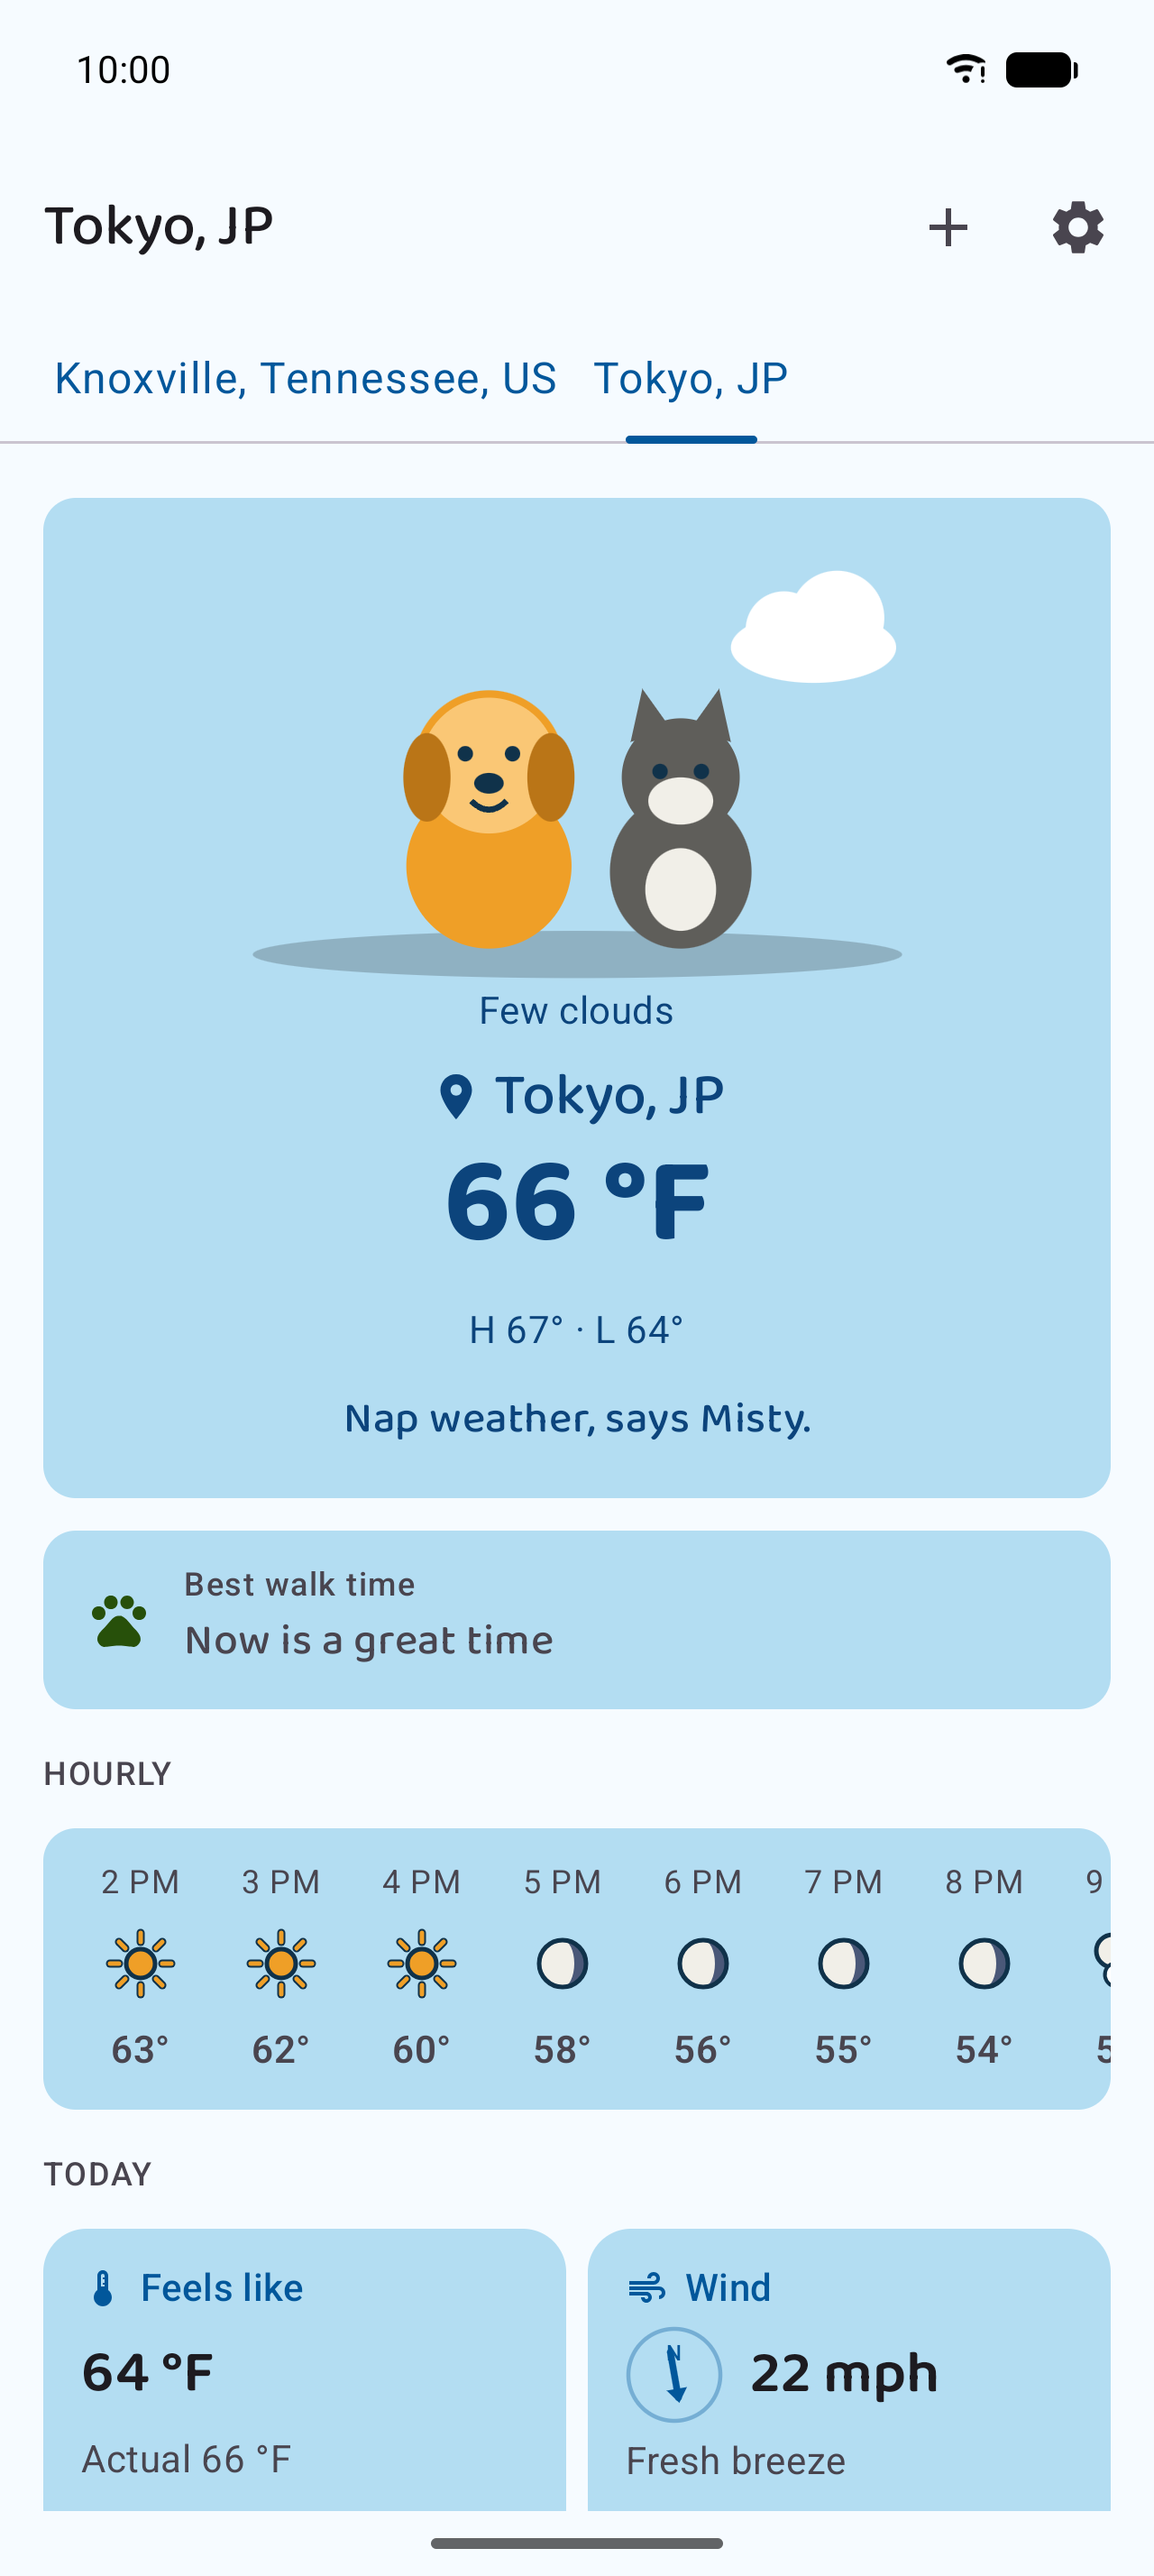
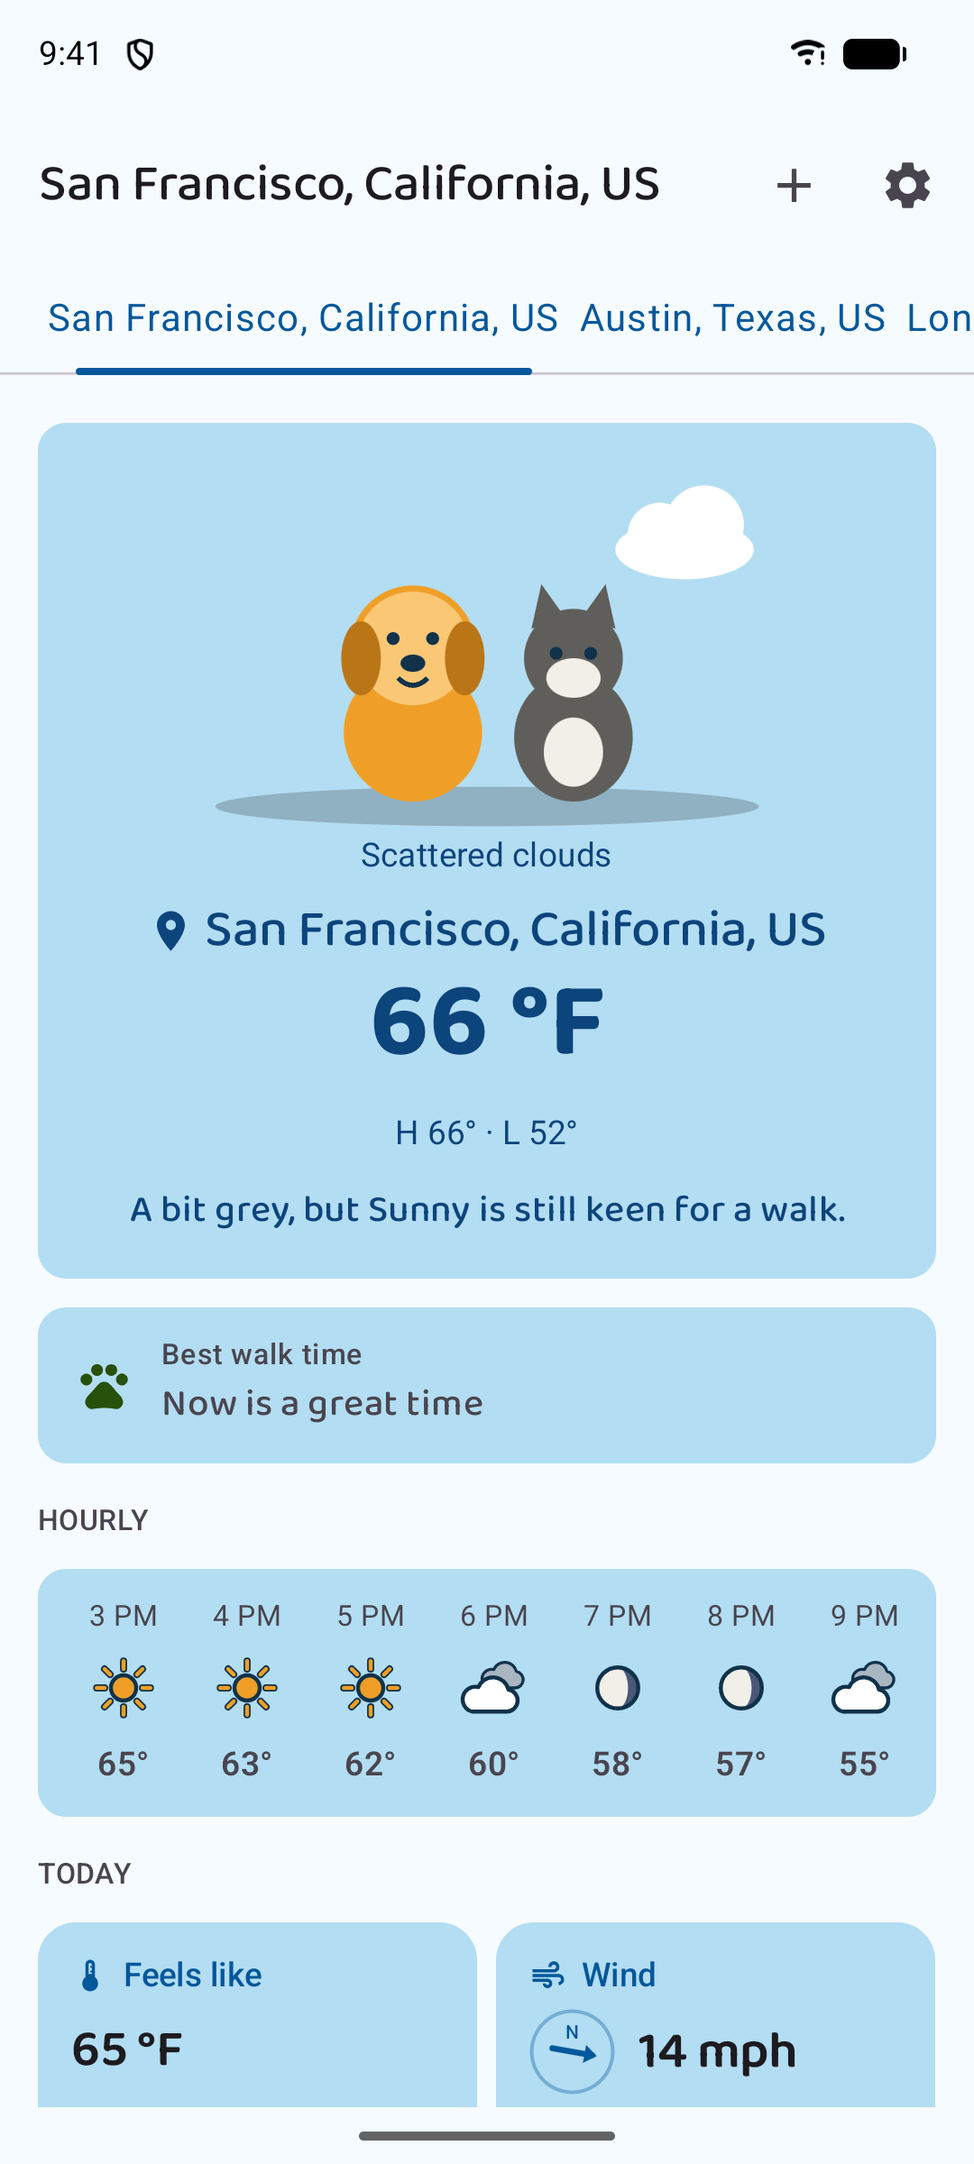
README: fresh screenshots, and a Play Store screenshot set (#97)
* Hero: today's high and low from the forecast

The hero's H and L came from OpenWeather's current temp_max/temp_min, which
is the spread across nearby stations right now, not the day's range: San
Francisco showed H 70 / L 64 while its hours ran 55 to 65. It now uses
today's forecast high and low, widened to take in the temperature now, and
falls back to the current reading until today's forecast is in.

Today's forecast range also only covered the hours still to come, so late
in the evening it read H 51 / L 49. Open-Meteo days now take each local
day's min and max over all of its hours, including those already past.

* README: fresh screenshots, and a Play Store screenshot set

New README screenshots showing the full-width Air quality tile, and
screenshots/play-store/ with six 1080x1920 phone shots and two tablet shots.
The feature list now covers the Today tiles, air quality, bad air in the
walk planner and the update prompts.

* NOTES: high and low fix, screenshot findings

* Day detail: drop the doubled divider under the header

The header's divider and the list's top divider sat 8dp apart, which read
as an empty row before the first hour.

diff --git a/app/src/main/java/com/fangjet/weather/ui/CurrentWeatherScreen.kt b/app/src/main/java/com/fangjet/weather/ui/CurrentWeatherScreen.kt
@@ -950,16 +950,17 @@ private fun CurrentWeatherContent(
                         fontWeight = FontWeight.Bold,
                         color = ink,
                     )
+                    val (high, low) = heroHighLow(weather, todayForecast)
                     val spokenRange = stringResource(
                         R.string.label_temp_range_spoken,
-                        weather.tempMax.roundToInt(),
-                        weather.tempMin.roundToInt(),
+                        high.roundToInt(),
+                        low.roundToInt(),
                     )
                     Text(
                         text = stringResource(
                             R.string.label_temp_range,
-                            weather.tempMax.roundToInt(),
-                            weather.tempMin.roundToInt(),
+                            high.roundToInt(),
+                            low.roundToInt(),
                         ),
                         style = MaterialTheme.typography.bodyMedium,
                         color = ink,
@@ -1566,3 +1567,18 @@ private fun SectionHeader(
 }
 
 private val TEMP_TOP_TRIM = 14.dp
+
+/**
+ * The hero's "H … · L …": today's forecast high and low, widened to take in the temperature now.
+ * OpenWeather's current `temp_max`/`temp_min` are the spread across nearby stations at this moment,
+ * not the day's range, so they're only the fallback until today's forecast is in.
+ */
+internal fun heroHighLow(
+    weather: CurrentWeather,
+    today: DayForecast?,
+): Pair<Double, Double> =
+    if (today == null) {
+        weather.tempMax to weather.tempMin
+    } else {
+        maxOf(today.tempMax, weather.temperature) to minOf(today.tempMin, weather.temperature)
+    }

diff --git a/app/src/test/java/com/fangjet/weather/ui/HeroHighLowTest.kt b/app/src/test/java/com/fangjet/weather/ui/HeroHighLowTest.kt
@@ -1,0 +1,50 @@
+package com.fangjet.weather.ui
+
+import com.fangjet.weather.domain.CurrentWeather
+import com.fangjet.weather.domain.DayForecast
+import com.fangjet.weather.domain.WeatherUnits
+import org.junit.Assert.assertEquals
+import org.junit.Test
+
+class HeroHighLowTest {
+    // OpenWeather's current min and max are the spread across nearby stations right now.
+    private val weather =
+        CurrentWeather(
+            cityName = "San Francisco",
+            conditionMain = "Clouds",
+            description = "scattered clouds",
+            iconCode = "03d",
+            temperature = 66.0,
+            feelsLike = 65.0,
+            tempMin = 64.0,
+            tempMax = 70.0,
+            humidityPercent = 60,
+            pressureHpa = 1015,
+            windSpeed = 10.0,
+            windDeg = 270,
+            visibilityMeters = 10000,
+            cloudPercent = 40,
+            units = WeatherUnits.IMPERIAL,
+        )
+
+    private fun today(
+        high: Double,
+        low: Double,
+    ) = DayForecast("Fri, Oct 30", "Clouds", "scattered clouds", "03d", high, high, low, high, WeatherUnits.IMPERIAL)
+
+    @Test
+    fun `uses today's forecast high and low`() {
+        assertEquals(68.0 to 52.0, heroHighLow(weather, today(high = 68.0, low = 52.0)))
+    }
+
+    @Test
+    fun `widens the range to take in the temperature now`() {
+        assertEquals(66.0 to 55.0, heroHighLow(weather, today(high = 65.0, low = 55.0)))
+        assertEquals(74.0 to 66.0, heroHighLow(weather, today(high = 74.0, low = 67.0)))
+    }
+
+    @Test
+    fun `falls back to the current reading's range without today's forecast`() {
+        assertEquals(70.0 to 64.0, heroHighLow(weather, null))
+    }
+}

diff --git a/weather-api/src/main/java/com/fangjet/weather/data/OpenMeteoForecastSource.kt b/weather-api/src/main/java/com/fangjet/weather/data/OpenMeteoForecastSource.kt
@@ -101,6 +101,13 @@ class OpenMeteoForecastSource @Inject constructor(
                 shortwaveRadiationWm2 = h.time.indices.map { i -> h.shortwaveRadiation.getOrNull(i) },
                 isDay = h.time.indices.map { i -> h.isDay.getOrNull(i) == 1 },
             )
+            // Each local day's range over all of its hours, including the ones dropped below, so
+            // late in the evening today's high is still the afternoon's, not the next few hours'.
+            val localDate = { epoch: Long -> Instant.ofEpochSecond(epoch).atZone(zone).toLocalDate() }
+            val dayRanges = h.time.indices
+                .mapNotNull { i -> h.temperature.getOrNull(i)?.let { localDate(h.time[i]) to it } }
+                .groupBy({ it.first }, { it.second })
+                .mapValues { (_, temps) -> temps.min() to temps.max() }
             val slots = h.time.indices.mapNotNull { i ->
                 val epoch = h.time[i]
                 val temp = h.temperature.getOrNull(i) ?: return@mapNotNull null
@@ -111,6 +118,8 @@ class OpenMeteoForecastSource @Inject constructor(
                     epochSeconds = epoch,
                     temperature = temp,
                     feelsLike = h.apparentTemperature.getOrNull(i) ?: temp,
+                    tempMin = dayRanges[localDate(epoch)]?.first ?: temp,
+                    tempMax = dayRanges[localDate(epoch)]?.second ?: temp,
                     conditionMain = condition.main,
                     description = condition.description,
                     iconCode = condition.iconCode,

diff --git a/weather-api/src/test/java/com/fangjet/weather/data/OpenMeteoForecastSourceTest.kt b/weather-api/src/test/java/com/fangjet/weather/data/OpenMeteoForecastSourceTest.kt
@@ -51,6 +51,22 @@ class OpenMeteoForecastSourceTest {
     }
 
     @Test
+    fun `today's high and low cover the whole day, not just the hours left`() {
+        // 24 hours peaking at 2 PM (25°) with a 2 AM low (5°); now is 9 PM.
+        val temps = List(24) { hour -> 15.0 + 10.0 * Math.sin((hour - 8) * Math.PI / 12) }
+        val r = response(24)
+        val response = r.copy(hourly = r.hourly.copy(temperature = temps))
+        val now = dayStart + 21 * 3600
+
+        val today = OpenMeteoForecastSource.toDayForecasts(response, WeatherUnits.METRIC, now).first()
+
+        assertEquals("9 PM", today.hourlySlots.first().timeLabel)
+        assertEquals(temps.max(), today.tempMax, 0.0001)
+        assertEquals(temps[14], today.tempMax, 0.0001)
+        assertEquals(temps.min(), today.tempMin, 0.0001)
+    }
+
+    @Test
     fun `groups and labels hours in the city's own timezone`() {
         // UTC+10: midnight UTC is 10 AM local on the same date, and 14:00 UTC is midnight next day.
         val days = OpenMeteoForecastSource.toDayForecasts(response(24, offset = 36_000), WeatherUnits.METRIC, dayStart)

diff --git a/app/src/main/java/com/fangjet/weather/ui/DayDetailBottomSheet.kt b/app/src/main/java/com/fangjet/weather/ui/DayDetailBottomSheet.kt
@@ -126,8 +126,6 @@ private fun DayDetailContent(
                 items(day.hourlySlots) { slot -> HourlySlotColumn(slot = slot) }
             }
         } else {
-            HorizontalDivider(modifier = Modifier.padding(horizontal = 20.dp))
-
             LazyColumn(
                 modifier = Modifier
                     .fillMaxWidth()

diff --git a/README.md b/README.md
@@ -18,7 +18,8 @@ WorkManager, and CI on GitHub Actions.
 
 ## Features
 
-- **Current conditions** for any city: temperature, feels-like, daily min/max, humidity, wind
+- **Current conditions** for any city: temperature, feels-like, today's high and low (from the
+  day's forecast, over all of its hours), humidity, wind
   speed and direction ("0 mph", with no direction, when calm), visibility ("Clear" at
   OpenWeather's 10 km cap), cloud cover, UV index (daytime, from Open-Meteo), and sunrise/sunset.
 - **Pets that react to the weather**: Sunny the dog and Misty the cat, drawn in Compose, whose scene
@@ -34,6 +35,9 @@ WorkManager, and CI on GitHub Actions.
   around…", judged in the city's own UTC offset. The paw is tinted by the rating, and a caption
   explains hot pavement (naming the pavement only when it's the reason) or freezing weather. Users can turn it off in Settings (*I have a dog*, which hides the Paw check tile too), and
   `walk_card_enabled` hides it remotely.
+- **Bad air in the walk planner**: hours at US "Unhealthy" or worse (Europe's "Poor" and up) are
+  never suggested, and the walk card says "Bad air. Potty breaks only." when the air is bad now.
+  Heat still outranks it. The band is tunable with `walk_bad_air_band`.
 - **Next rain** line under the top card, only when rain or snow is due in the next 2 hours: "Rain
   starting around 3:15 PM", "Rain stopping around 4:30 PM" or "Rain for the next 2 hours", from
   Open-Meteo's 15-minute forecast (0.1 mm in 15 minutes counts; it stops after 30 dry minutes).
@@ -43,6 +47,16 @@ WorkManager, and CI on GitHub Actions.
   otherwise to the nearest 10%, as everywhere in the app). Hours that have
   already passed are dropped at display time (`fromCurrentSlot`), so a cached forecast or an app
   left open never shows or advises on past hours.
+- **Today tiles**: Feels like, Wind, Humidity, Paw check (with a dog) and Air quality in pairs, then
+  Daylight (with the UV index) and Sky across the full width. An odd tile out, usually Air quality
+  when Paw check is showing, takes the full width rather than leaving a gap.
+- **Air quality** tile: the index on the city's scale (Europe's for cities on a European clock, the
+  US one elsewhere), its band on a six-colour bar, and what it means for a walk, or for people
+  without a dog. It comes from Open-Meteo's hourly air quality forecast, fetched with the forecast in
+  one request and cached with it, so it shows offline too. `air_quality_enabled` switches it off.
+- **Update prompts**: below `android_min_supported_version` the app shows only "Time for an update";
+  below `android_min_recommended_version` a banner offers the update, and *Not now* hides it for a
+  week. Both open the Play Store listing.
 - **Weather icons** bundled as vector drawables, drawn in the pets' style with their navy outline so
   they read on light and dark cards. Night icons show the moon's phase for that hour, worked out
   from the date (no API).
@@ -80,15 +94,15 @@ WorkManager, and CI on GitHub Actions.
 
 ## Screenshots
 
-| Pets, walk time & hourly | Today tiles & Paw check | Radar & rest of week | Day detail | Settings |
+| Pets, walk time & hourly | Today tiles & air quality | Radar & rest of week | Day detail | Settings |
 |---|---|---|---|---|
-| ![Sunny and Misty react to the weather, with best walk time and the hourly strip](./screenshots/current.png) | ![Today's tiles: feels like, wind, humidity, Paw check, daylight and sky](./screenshots/today.png) | ![Animated RainViewer radar and the rest of the week](./screenshots/forecast.png) | ![Hour-by-hour temperature and rain chance for a day](./screenshots/day.png) | ![Settings with units, I have a dog and notifications](./screenshots/settings.png) |
+| ![Sunny and Misty react to the weather, with best walk time and the hourly strip](./screenshots/current.png) | ![Today's tiles: feels like, wind, humidity and Paw check in pairs, then Air quality, daylight and sky across the full width](./screenshots/today.png) | ![Animated RainViewer radar and the rest of the week](./screenshots/forecast.png) | ![Hour-by-hour temperature and rain chance for a day](./screenshots/day.png) | ![Settings with units, I have a dog and notifications](./screenshots/settings.png) |
 
 On tablets and in landscape, the pets sit beside today's details and the week splits into two columns:
 
-![Phone in landscape with the pets beside today's details](./screenshots/landscape.png)
+![Phone in landscape on a rainy day, with the pets beside today's details](./screenshots/landscape.png)
 
-![Tablet layout with the pets beside today's details](./screenshots/tablet.png)
+![Tablet layout with the pets beside today's tiles, Air quality across the full width](./screenshots/tablet.png)
 
 ## Getting started
 
@@ -127,6 +141,17 @@ start and lists what's missing, rather than producing an unsigned app or one wit
 builds, tests and lint don't need them. CI writes these from the `KEYSTORE_BASE64`, `KEYSTORE_PASSWORD`, `KEY_ALIAS`,
 and `KEY_PASSWORD` Actions secrets when they are set, and uploads the debug and release APKs as
 build artifacts.
+
+### Play Store
+
+[`screenshots/play-store/`](screenshots/play-store/) holds the store screenshots, taken on an
+emulator with a clean status bar:
+
+- Phone, 1080 × 1920 (9:16; Play rejects anything longer than 2:1, so not the Pixel's 1080 × 2400).
+  Upload in this order: `01-welcome`, `02-today`, `03-rain-walk`, `04-radar-week`,
+  `05-day-detail`, `06-settings`.
+- Tablet: `tablet-01` (1600 × 2560, portrait) and `tablet-02` (2560 × 1600, landscape), for both
+  the 7-inch and 10-inch tablet slots.
 
 ## Architecture & tech stack
 

diff --git a/NOTES.md b/NOTES.md
@@ -83,6 +83,14 @@ Merge in this order; each stacked PR moves onto main or master once the one belo
   `recommended`); on Android,
   `adb shell am start -n com.fangjet.weather.debug/com.fangjet.weather.MainActivity --es updatePrompt required`.
 
+## Small fixes found while taking screenshots (10-30)
+
+- [ ] City search shows the same suggestion twice ("Amsterdam, North Holland, NL"). Drop duplicates.
+- [ ] On the day clocks fall back, the day detail lists "1 AM" twice. That's right, but the
+      second could say so (for example "1 AM PST").
+- [ ] My Location shows the reverse-geocoded neighbourhood ("Horinouchi" for central Tokyo), not
+      the city. Prefer the city name?
+
 ## Testing
 
 - [ ] On an Android device: the full-width odd tile and the Air quality tile now read from the
@@ -118,6 +126,7 @@ Merge in this order; each stacked PR moves onto main or master once the one belo
 
 ## Done
 
+- [x] The day detail's empty row under the header (two dividers in a row) is gone. (10-30)
 - [x] iOS signing: FangJet LLC's team (`3V3NR8HP58`), your iPhone registered, and a Release archive
       that exports with App Store signing. (10-30)
 - [x] Update prompts: `ios_`/`android_min_supported_version` block the app until it's updated,
@@ -136,3 +145,7 @@ Merge in this order; each stacked PR moves onto main or master once the one belo
       test-clone simulators (329 GB) deleted. (10-05, done 10-30)
 - [x] Xcode 27.1 recommended settings, and the `nilIfBlank` isolation error. (10-30)
 - [x] Old local and merged branches cleaned up. (10-26, done 10-30)
+- [x] The hero's high and low came from OpenWeather's current reading (the spread across nearby
+      stations right now) and today's forecast only covered the hours left. Both now show the
+      whole day from the forecast. (10-30)
+- [x] Fresh README, App Store and Play Store screenshots. (10-30)
